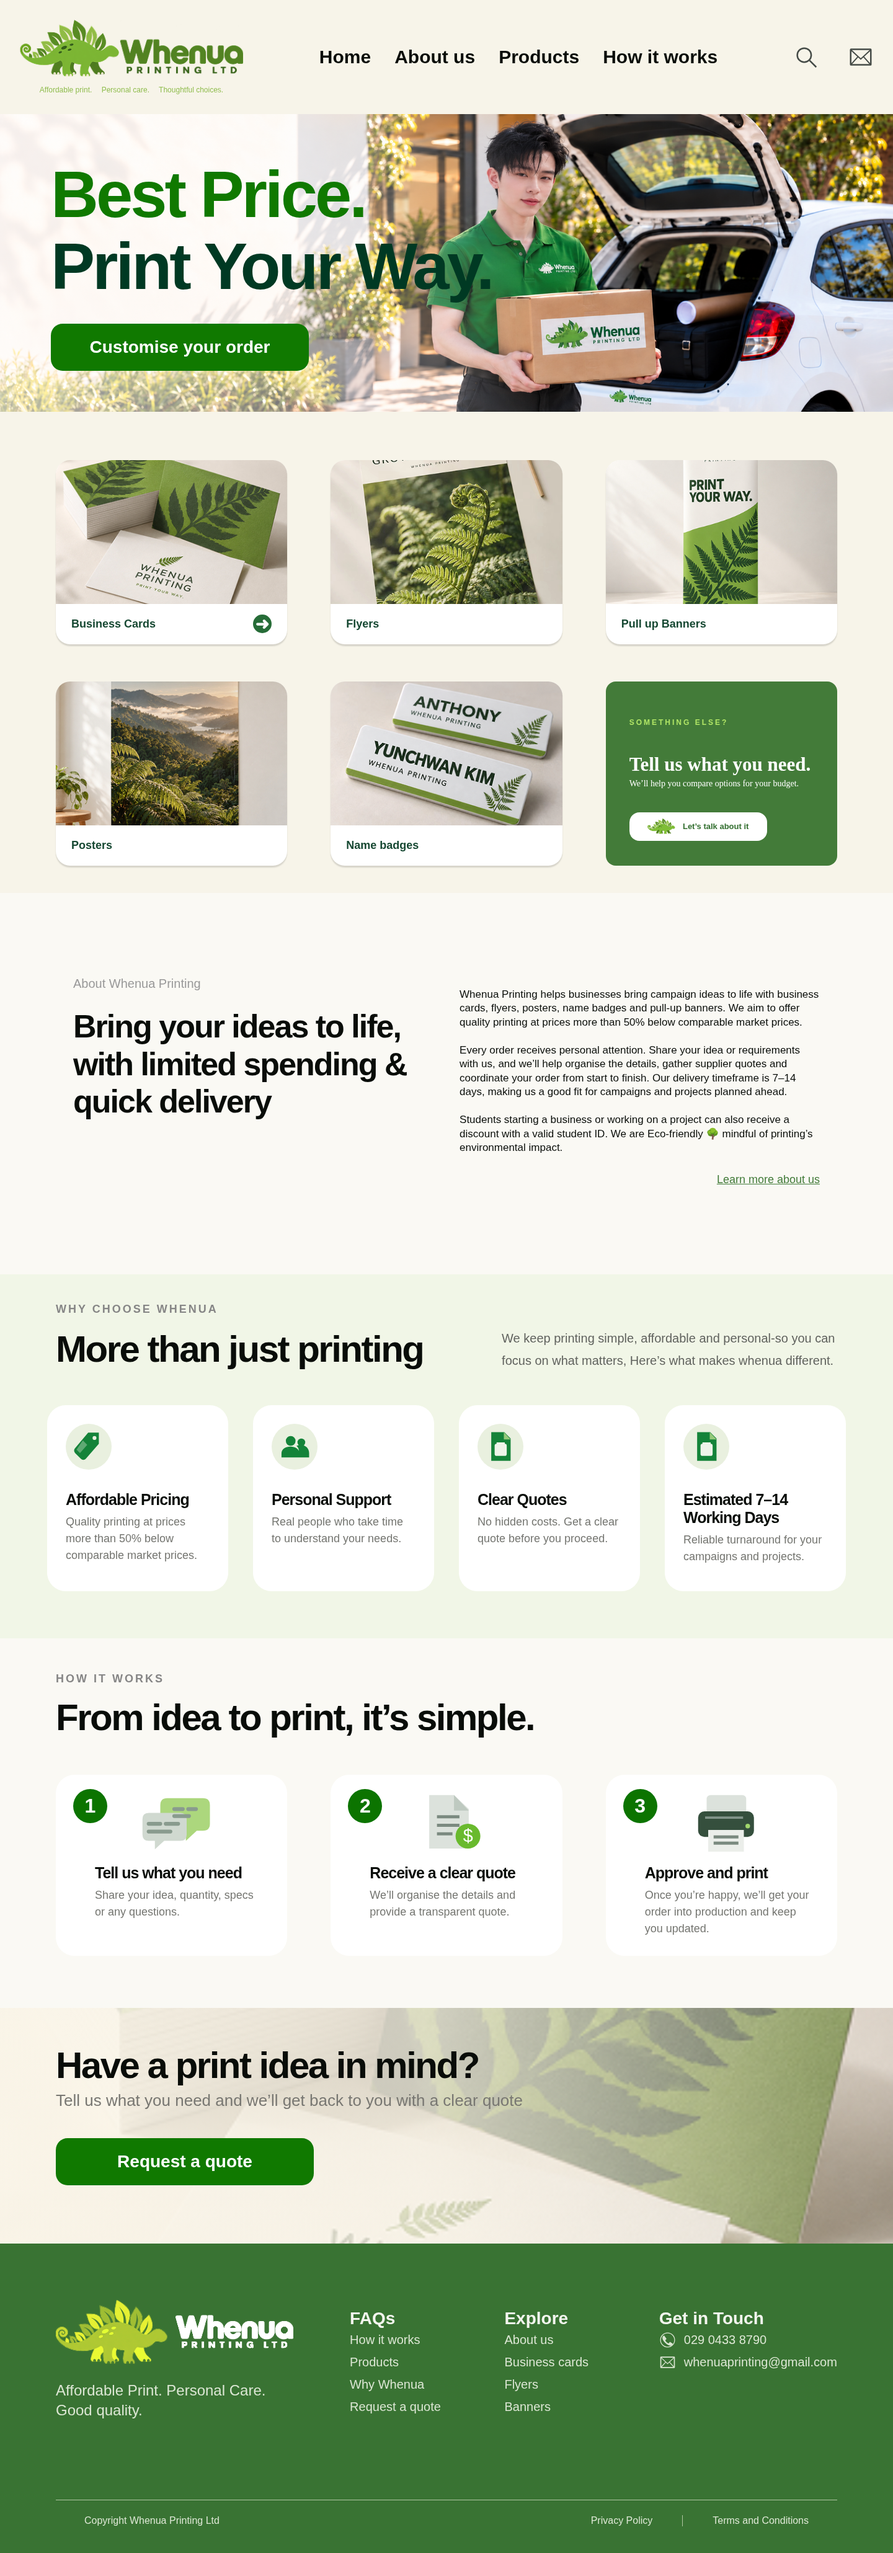
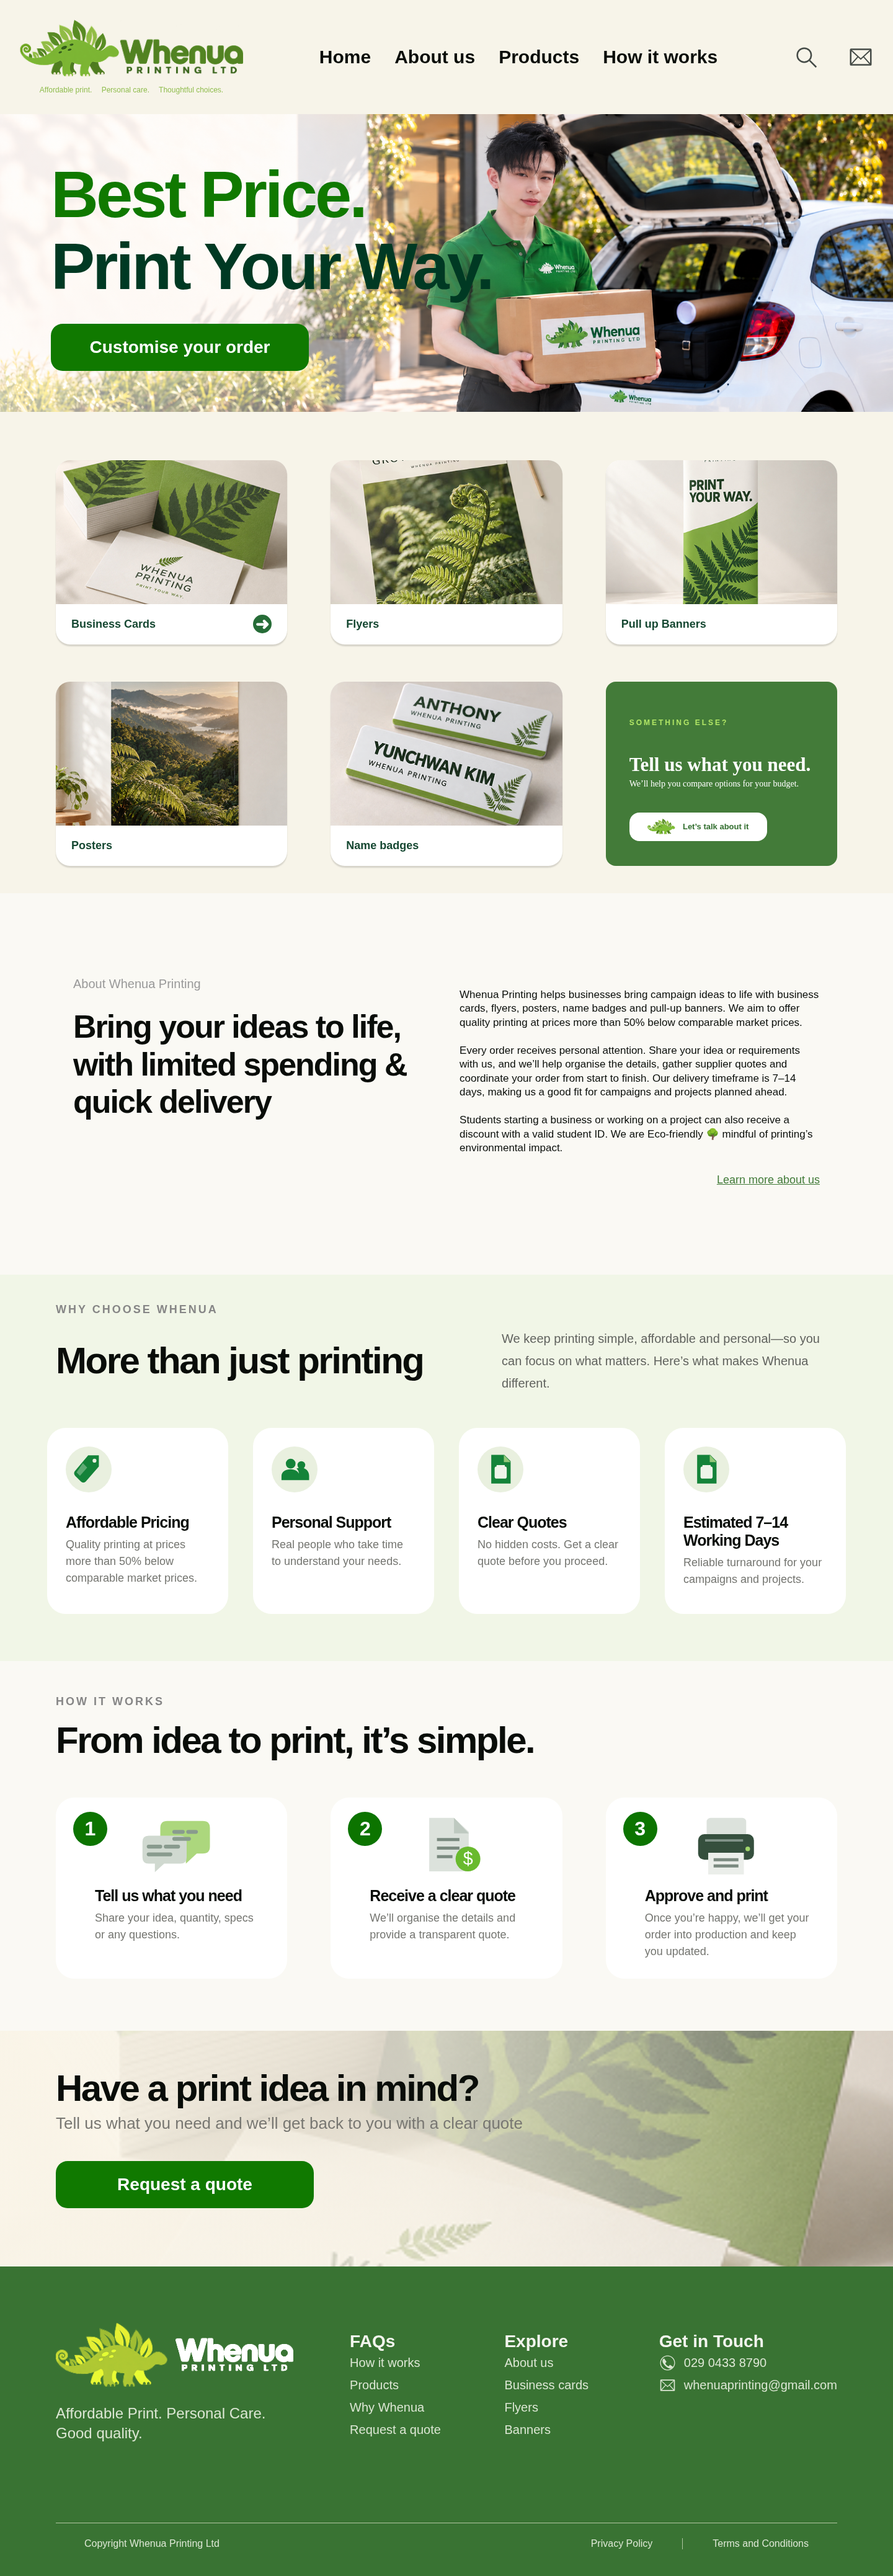
Complete contact enquiry workflow and refresh website previews

diff --git a/index.html b/index.html
@@ -12,11 +12,11 @@
 <section class="hero" aria-labelledby="heroTitle"><img class="hero-photo" src="assets/hero.jpg" alt="Whenua Printing team member holding a printed box beside a delivery car" width="2100" height="749" fetchpriority="high"><div class="hero-content"><h1 id="heroTitle"><span>Best Price.</span><br>Print Your Way.</h1><button class="button quote-open">Customise your order</button></div></section>
 <section class="products-section" id="products" aria-label="Our printing products"><div class="container product-grid"><a class="product-card" href="#quote" data-product="Business Cards"><img class="product-photo" src="assets/business-cards.jpg" alt="Business Cards printed by Whenua Printing" width="488" height="303" loading="lazy"><div class="product-caption"><span>Business Cards</span><span class="round-arrow" aria-hidden="true">➜</span></div></a><a class="product-card" href="#quote" data-product="Flyers"><img class="product-photo" src="assets/flyers.jpg" alt="Flyers printed by Whenua Printing" width="488" height="303" loading="lazy"><div class="product-caption"><span>Flyers</span></div></a><a class="product-card" href="#quote" data-product="Pull up Banners"><img class="product-photo" src="assets/pull-up-banners.jpg" alt="Pull up Banners printed by Whenua Printing" width="488" height="303" loading="lazy"><div class="product-caption"><span>Pull up Banners</span></div></a><a class="product-card" href="#quote" data-product="Posters"><img class="product-photo" src="assets/posters.jpg" alt="Posters printed by Whenua Printing" width="488" height="303" loading="lazy"><div class="product-caption"><span>Posters</span></div></a><a class="product-card" href="#quote" data-product="Name badges"><img class="product-photo" src="assets/name-badges.jpg" alt="Name badges printed by Whenua Printing" width="488" height="303" loading="lazy"><div class="product-caption"><span>Name badges</span></div></a><article class="custom-card"><div class="custom-eyebrow">SOMETHING ELSE?</div><h2>Tell us what you need.</h2><p>We’ll help you compare options for your budget.</p><button class="custom-button quote-open"><span class="mini-dino"><img src="assets/Image%20Logo.png" alt="" width="300" height="300"></span><span>Let’s talk about it</span></button></article></div></section>
 <section class="about-section" id="about" aria-labelledby="aboutTitle"><div class="about-inner"><div><p class="about-eyebrow">About Whenua Printing</p><h2 class="about-heading" id="aboutTitle">Bring your ideas to life,<br>with limited spending &amp;<br>quick delivery</h2></div><div class="about-copy"><p>Whenua Printing helps businesses bring campaign ideas to life with business cards, flyers, posters, name badges and pull-up banners. We aim to offer quality printing at prices more than 50% below comparable market prices.</p><p>Every order receives personal attention. Share your idea or requirements with us, and we’ll help organise the details, gather supplier quotes and coordinate your order from start to finish. Our delivery timeframe is 7–14 days, making us a good fit for campaigns and projects planned ahead.</p><p>Students starting a business or working on a project can also receive a discount with a valid student ID. We are Eco-friendly 🌳 mindful of printing’s environmental impact.</p><a class="text-link" href="#why">Learn more about us</a></div></div></section>
-<section class="why-section" id="why" aria-labelledby="whyTitle"><div class="container"><p class="eyebrow">WHY CHOOSE WHENUA</p><div class="why-heading-row"><h2 id="whyTitle">More than just printing</h2><p>We keep printing simple, affordable and personal-so you can focus on what matters, Here’s what makes whenua different.</p></div><div class="features"><article class="feature"><div class="feature-icon"><svg viewBox="0 0 64 64" aria-hidden="true" focusable="false"><path d="M31 3h22v23L26 57a7 7 0 0 1-10 0L4 45a7 7 0 0 1 0-10Z" fill="currentColor"/><circle cx="44" cy="14" r="4" fill="#e9f0df"/><path d="m20 19 9 9-15 17-7-7Z" fill="#e9f0df" opacity=".35"/></svg></div><h3>Affordable Pricing</h3><p>Quality printing at prices more than 50% below comparable market prices.</p></article><article class="feature"><div class="feature-icon"><svg viewBox="0 0 64 64" aria-hidden="true" focusable="false"><circle cx="24" cy="20" r="10" fill="currentColor"/><circle cx="46" cy="23" r="8" fill="currentColor"/><path d="M5 54v-8c0-19 37-19 37 0v8Zm36 0V42c0-6-2-9-5-12 16-5 26 4 26 15v9Z" fill="currentColor"/></svg></div><h3>Personal Support</h3><p>Real people who take time to understand your needs.</p></article><article class="feature"><div class="feature-icon"><svg viewBox="0 0 64 64" aria-hidden="true" focusable="false"><path d="M13 2h27l13 13v46H13Z" fill="currentColor"/><path d="M39 2v15h14" fill="#95c97b"/><rect x="20" y="26" width="25" height="25" rx="4" fill="#eef4e9"/><path d="M24 23h17v9H24Z" fill="#eef4e9"/></svg></div><h3>Clear Quotes</h3><p>No hidden costs. Get a clear quote before you proceed.</p></article><article class="feature"><div class="feature-icon"><svg viewBox="0 0 64 64" aria-hidden="true" focusable="false"><path d="M13 2h27l13 13v46H13Z" fill="currentColor"/><path d="M39 2v15h14" fill="#95c97b"/><rect x="20" y="26" width="25" height="25" rx="4" fill="#eef4e9"/><path d="M24 23h17v9H24Z" fill="#eef4e9"/></svg></div><h3>Estimated 7–14<br>Working Days</h3><p>Reliable turnaround for your campaigns and projects.</p></article></div></div></section>
+<section class="why-section" id="why" aria-labelledby="whyTitle"><div class="container"><p class="eyebrow">WHY CHOOSE WHENUA</p><div class="why-heading-row"><h2 id="whyTitle">More than just printing</h2><p>We keep printing simple, affordable and personal—so you can focus on what matters. Here’s what makes Whenua different.</p></div><div class="features"><article class="feature"><div class="feature-icon"><svg viewBox="0 0 64 64" aria-hidden="true" focusable="false"><path d="M31 3h22v23L26 57a7 7 0 0 1-10 0L4 45a7 7 0 0 1 0-10Z" fill="currentColor"/><circle cx="44" cy="14" r="4" fill="#e9f0df"/><path d="m20 19 9 9-15 17-7-7Z" fill="#e9f0df" opacity=".35"/></svg></div><h3>Affordable Pricing</h3><p>Quality printing at prices more than 50% below comparable market prices.</p></article><article class="feature"><div class="feature-icon"><svg viewBox="0 0 64 64" aria-hidden="true" focusable="false"><circle cx="24" cy="20" r="10" fill="currentColor"/><circle cx="46" cy="23" r="8" fill="currentColor"/><path d="M5 54v-8c0-19 37-19 37 0v8Zm36 0V42c0-6-2-9-5-12 16-5 26 4 26 15v9Z" fill="currentColor"/></svg></div><h3>Personal Support</h3><p>Real people who take time to understand your needs.</p></article><article class="feature"><div class="feature-icon"><svg viewBox="0 0 64 64" aria-hidden="true" focusable="false"><path d="M13 2h27l13 13v46H13Z" fill="currentColor"/><path d="M39 2v15h14" fill="#95c97b"/><rect x="20" y="26" width="25" height="25" rx="4" fill="#eef4e9"/><path d="M24 23h17v9H24Z" fill="#eef4e9"/></svg></div><h3>Clear Quotes</h3><p>No hidden costs. Get a clear quote before you proceed.</p></article><article class="feature"><div class="feature-icon"><svg viewBox="0 0 64 64" aria-hidden="true" focusable="false"><path d="M13 2h27l13 13v46H13Z" fill="currentColor"/><path d="M39 2v15h14" fill="#95c97b"/><rect x="20" y="26" width="25" height="25" rx="4" fill="#eef4e9"/><path d="M24 23h17v9H24Z" fill="#eef4e9"/></svg></div><h3>Estimated 7–14<br>Working Days</h3><p>Reliable turnaround for your campaigns and projects.</p></article></div></div></section>
 <section class="how-section" id="how" aria-labelledby="howTitle"><div class="container"><p class="eyebrow">HOW IT WORKS</p><h2 id="howTitle">From idea to print, it’s simple.</h2><div class="steps"><article class="step"><span class="step-number">1</span><div class="step-art"><svg viewBox="-8 0 100 80" aria-hidden="true" focusable="false"><path d="M29 7h46q9 0 9 9v24q0 9-9 9h-8L53 62V49H29q-9 0-9-9V16q0-9 9-9" fill="#acd77d"/><path d="M5 26h41q8 0 8 8v20q0 8-8 8H25L13 73V62H5q-8 0-8-8V34q0-8 8-8" fill="#d0d9d0"/><path d="M5 40h15m7 0h16M5 50h28m5-29h11m7 0h10m-28 9h19" stroke="#899b8e" stroke-width="5" stroke-linecap="round"/></svg></div><h3>Tell us what you need</h3><p>Share your idea, quantity, specs or any questions.</p></article><article class="step"><span class="step-number">2</span><div class="step-art"><svg viewBox="0 0 95 80" aria-hidden="true" focusable="false"><path d="M18 3h32l19 18v51H18Z" fill="#dce2dc"/><path d="M50 3v20h19" fill="#bec9c0"/><path d="M28 31h29M28 42h29M28 53h20" stroke="#7b8a80" stroke-width="4"/><circle cx="68" cy="56" r="16" fill="#69ba2e"/><text x="68" y="63" fill="white" text-anchor="middle" font-size="23" font-family="Arial">$</text></svg></div><h3>Receive a clear quote</h3><p>We’ll organise the details and provide a transparent quote.</p></article><article class="step"><span class="step-number">3</span><div class="step-art"><svg viewBox="0 0 100 80" aria-hidden="true" focusable="false"><rect x="24" y="3" width="51" height="26" rx="5" fill="#dce2dc"/><rect x="13" y="24" width="72" height="33" rx="8" fill="#354f3d"/><path d="M22 32h49" stroke="#82948a" stroke-width="3"/><circle cx="77" cy="43" r="3" fill="#a1d66c"/><path d="M26 48h46v28H26Z" fill="#ebeeea"/><path d="M33 57h32m-32 8h32" stroke="#7b8a80" stroke-width="4"/></svg></div><h3>Approve and print</h3><p>Once you’re happy, we’ll get your order into production and keep you updated.</p></article></div></div></section>
 <section class="quote-section" id="quote" aria-labelledby="quoteSectionTitle"><img class="quote-photo" src="assets/business-cards.jpg" alt="Fern-design Whenua Printing business cards" loading="lazy"><div class="container"><h2 id="quoteSectionTitle">Have a print idea in mind?</h2><p>Tell us what you need and we’ll get back to you with a clear quote</p><button class="button quote-open">Request a quote</button></div></section>
 </main>
 <footer class="site-footer"><div class="container"><div class="footer-grid"><div class="footer-brand-column"><a class="footer-brand" href="#" aria-label="Whenua Printing home"><span class="footer-dino"><img src="assets/Image%20Logo.png" alt="" width="300" height="300"></span><span class="footer-wordmark"><img src="assets/Text%20Logo.png" alt="Whenua Printing Ltd" width="300" height="300"></span></a><p>Affordable Print. Personal Care.<br>Good quality.</p></div><div class="footer-column"><h3>FAQs</h3><a href="#how">How it works</a><a href="#products">Products</a><a href="#why">Why Whenua</a><a href="#quote">Request a quote</a></div><div class="footer-column"><h3>Explore</h3><a href="#about">About us</a><a href="#products">Business cards</a><a href="#products">Flyers</a><a href="#products">Banners</a></div><div class="footer-column footer-contact"><h3>Get in Touch</h3><a class="contact-link" href="tel:02904338790"><svg viewBox="0 0 64 64" aria-hidden="true" focusable="false"><circle cx="32" cy="32" r="27" fill="none" stroke="currentColor" stroke-width="3"/><path d="M19 15l9 13-5 5c4 7 7 10 13 12l5-6 11 7c-3 13-17 8-28-2C10 31 9 19 19 15" fill="currentColor"/></svg><span>029 0433 8790</span></a><a class="contact-link" href="mailto:whenuaprinting@gmail.com"><svg viewBox="0 0 64 64" aria-hidden="true" focusable="false"><rect x="6" y="12" width="52" height="40" rx="1" fill="none" stroke="currentColor" stroke-width="4"/><path d="m7 14 25 23 25-23M7 51l18-20m32 20L39 31" fill="none" stroke="currentColor" stroke-width="3"/></svg><span>whenuaprinting@gmail.com</span></a></div></div><div class="legal"><span>Copyright Whenua Printing Ltd</span><div class="legal-links"><span>Privacy Policy</span><span>Terms and Conditions</span></div></div></div></footer>
-<dialog id="quoteDialog" aria-labelledby="quoteTitle"><button class="dialog-close" type="button" data-close aria-label="Close enquiry">×</button><h2 id="quoteTitle">Tell us what you need.</h2><p>Fill in your project details to prepare an email enquiry. Send it from your email app to complete your request.</p><form id="quoteForm"><div class="form-field"><label for="name">Your name</label><input id="name" name="name" autocomplete="name" required maxlength="150"></div><div class="form-field"><label for="product">Product</label><select id="product" name="product"><option>Business Cards</option><option>Flyers</option><option>Pull up Banners</option><option>Posters</option><option>Name badges</option><option>Something else</option></select></div><div class="form-field"><label for="quantity">Quantity</label><input id="quantity" name="quantity" type="number" min="1" max="1000000" step="1" required></div><div class="form-field"><label for="details">Project details</label><textarea id="details" name="details" placeholder="Size, finish, preferred delivery date, or any questions" required maxlength="5000"></textarea></div><button class="button" type="submit">Open email enquiry</button><p id="emailStatus" role="status"></p></form></dialog>
+<dialog id="quoteDialog" aria-labelledby="quoteTitle"><button class="dialog-close" type="button" data-close aria-label="Close enquiry">×</button><h2 id="quoteTitle">Tell us what you need.</h2><p>Fill in your project details to prepare an email enquiry. Send it from your email app to complete your request.</p><form id="quoteForm"><div class="form-field"><label for="name">Your name</label><input id="name" name="name" autocomplete="name" required maxlength="150"></div><div class="form-field"><label for="email">Your email</label><input id="email" name="email" type="email" autocomplete="email" required maxlength="254"></div><div class="form-field"><label for="phone">Phone (optional)</label><input id="phone" name="phone" type="tel" autocomplete="tel" maxlength="50"></div><div class="form-field"><label for="product">Product</label><select id="product" name="product"><option>Business Cards</option><option>Flyers</option><option>Pull up Banners</option><option>Posters</option><option>Name badges</option><option>Something else</option></select></div><div class="form-field"><label for="quantity">Quantity</label><input id="quantity" name="quantity" type="number" min="1" max="1000000" step="1" required></div><div class="form-field"><label for="details">Project details</label><textarea id="details" name="details" placeholder="Size, finish, preferred delivery date, or any questions" required maxlength="5000"></textarea></div><div class="enquiry-actions"><button class="button" type="submit">Open email enquiry</button><button class="button button-secondary" type="button" id="copyEnquiry">Copy enquiry</button></div><p id="emailStatus" role="status"></p><div id="enquiryFallback" hidden><label for="enquiryText">Copy this message and email it to <a href="mailto:whenuaprinting@gmail.com">whenuaprinting@gmail.com</a></label><textarea id="enquiryText" readonly></textarea></div></form></dialog>
 <dialog id="searchDialog" aria-labelledby="searchTitle"><button class="dialog-close" type="button" data-close aria-label="Close search">×</button><h2 id="searchTitle">Find your print.</h2><div class="form-field"><label for="searchInput">Search products</label><input id="searchInput" type="search" placeholder="Business cards, flyers, posters…" autocomplete="off"></div><ul class="search-results" id="searchResults" aria-label="Matching products"></ul><p id="searchStatus" role="status"></p></dialog>
 </body></html>

diff --git a/scripts/home.js b/scripts/home.js
@@ -7,6 +7,7 @@ const siteNav = document.getElementById('siteNav');
 function openQuote(product) {
   if (product) productSelect.value = product;
   emailStatus.textContent = '';
+  document.getElementById('enquiryFallback').hidden = true;
   quoteDialog.showModal();
 }
 document.querySelectorAll('.quote-open').forEach(button => {
@@ -35,12 +36,39 @@ menuToggle.addEventListener('click', () => {
 siteNav.querySelectorAll('a').forEach(link => link.addEventListener('click', closeMenu));
 document.addEventListener('keydown', event => { if (event.key === 'Escape') closeMenu(); });
 window.matchMedia('(min-width: 761px)').addEventListener('change', closeMenu);
-document.getElementById('quoteForm').addEventListener('submit', event => {
+const quoteForm = document.getElementById('quoteForm');
+const enquiryFallback = document.getElementById('enquiryFallback');
+const enquiryText = document.getElementById('enquiryText');
+function enquiryMessage() {
+  return `Hello Whenua Printing,\n\nI’d like a quote for the following project:\n\nName: ${document.getElementById('name').value.trim()}\nEmail: ${document.getElementById('email').value.trim()}\nPhone: ${document.getElementById('phone').value.trim() || 'Not provided'}\nProduct: ${productSelect.value}\nQuantity: ${document.getElementById('quantity').value}\n\nProject details:\n${document.getElementById('details').value.trim()}\n\nPlease confirm pricing, delivery costs and turnaround. Thank you!`;
+}
+quoteForm.addEventListener('submit', event => {
   event.preventDefault();
-  if (!event.currentTarget.reportValidity()) return;
-  const body = `Name: ${document.getElementById('name').value}\nProduct: ${productSelect.value}\nQuantity: ${document.getElementById('quantity').value}\n\n${document.getElementById('details').value}`;
-  window.location.href = `mailto:whenuaprinting@gmail.com?subject=${encodeURIComponent('Printing quote enquiry')}&body=${encodeURIComponent(body)}`;
-  emailStatus.textContent = 'Your email app has been requested. Please send the message there. If it does not open, email whenuaprinting@gmail.com directly. This form does not send or store your enquiry.';
+  if (!quoteForm.reportValidity()) return;
+  const body = enquiryMessage();
+  enquiryText.value = body;
+  enquiryFallback.hidden = false;
+  // Keep long enquiries intact rather than risk truncating a mailto URL.
+  if (encodeURIComponent(body).length > 1800) {
+    emailStatus.textContent = 'Your enquiry is ready. Use Copy enquiry and paste it into an email to whenuaprinting@gmail.com.';
+    return;
+  }
+  window.location.href = `mailto:whenuaprinting@gmail.com?subject=${encodeURIComponent('Printing quote enquiry — ' + productSelect.value)}&body=${encodeURIComponent(body)}`;
+  emailStatus.textContent = 'Continue in your email app and press Send. If it does not open, use Copy enquiry and email the message to whenuaprinting@gmail.com. Your enquiry has not been sent by this website.';
+});
+document.getElementById('copyEnquiry').addEventListener('click', async () => {
+  if (!quoteForm.reportValidity()) return;
+  const body = enquiryMessage();
+  enquiryText.value = body;
+  enquiryFallback.hidden = false;
+  try {
+    await navigator.clipboard.writeText(body);
+    emailStatus.textContent = 'Enquiry copied. Paste it into an email to whenuaprinting@gmail.com and send it there.';
+  } catch {
+    enquiryText.focus();
+    enquiryText.select();
+    emailStatus.textContent = 'Select and copy the message below, then email it to whenuaprinting@gmail.com.';
+  }
 });
 const searchDialog = document.getElementById('searchDialog');
 const searchInput = document.getElementById('searchInput');

diff --git a/styles/home.css b/styles/home.css
@@ -11,3 +11,5 @@
 .footer-dino{mix-blend-mode:multiply}.footer-wordmark{mix-blend-mode:screen}.footer-wordmark img{filter:grayscale(1) invert(1) brightness(4)}.site-footer:before{content:none}
 .logo-crop img,.footer-dino img,.footer-wordmark img,.mini-dino img{height:auto}
 .footer-dino{mix-blend-mode:screen}.footer-dino img{mix-blend-mode:normal;filter:grayscale(1) invert(1) sepia(1) saturate(5) hue-rotate(25deg) brightness(1.3)}
+
+.enquiry-actions{display:flex;flex-wrap:wrap;gap:12px}.enquiry-actions .button-secondary{background:#e7eedf;color:#245c2c}.enquiry-actions .button-secondary:hover{background:#d6e4c9}#enquiryFallback{font-size:14px;line-height:1.6;margin-top:15px}#enquiryFallback a{text-decoration:underline}#enquiryText{display:block;margin-top:10px;min-height:190px}

diff --git a/README.md b/README.md
@@ -10,7 +10,7 @@ Open `index.html` in your browser, or run from this folder:
 python3 -m http.server 3000
 ```
 
-The quote form prepares an email in the visitor’s email application. The visitor must send it there; this site does not store enquiries or process payments.
+The quote form validates contact details and prepares a complete email in the visitor’s email application. A Copy enquiry option supports webmail and long messages. The visitor must send it there; this site does not store enquiries or process payments.
 
 ## Publish with GitHub Pages
 
